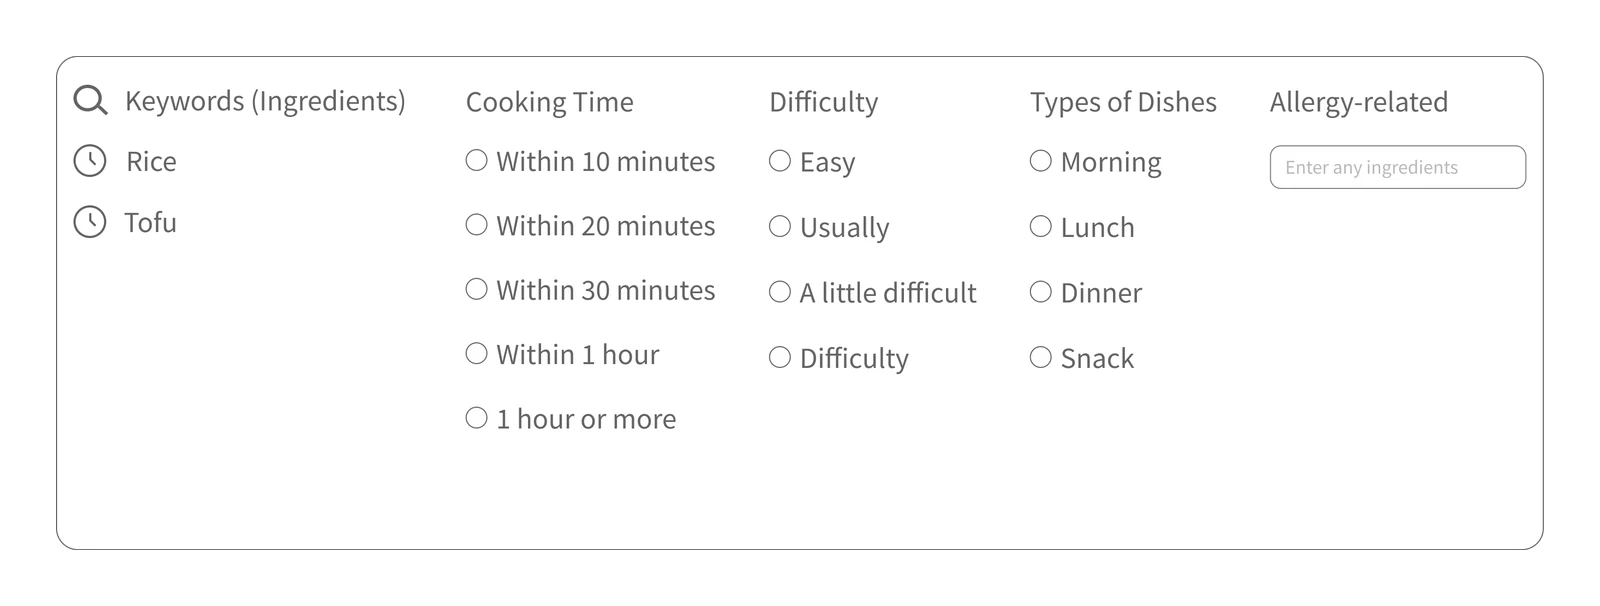
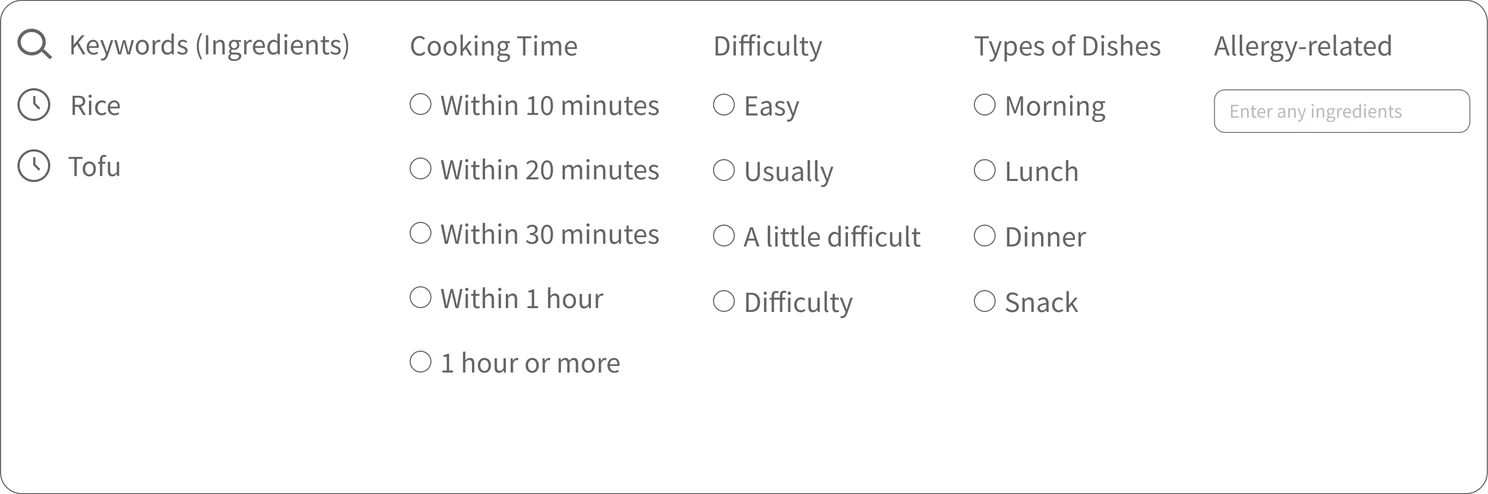
Highlight results in insight cards, clear the filter panel background
Cards with a problem and result now show them as separate Insight and Result
blocks. The PROFITKEY AI pick image is smaller and Log in is the last final screen.

diff --git a/src/data/projects.ts b/src/data/projects.ts
@@ -20,6 +20,8 @@ export type Figure = {
   tall?: boolean
   /** No white frame or border: for images with their own rounded card shape. */
   frameless?: boolean
+  /** Shown smaller than the column, for a tall screenshot beside a short text. */
+  narrow?: boolean
   /** Show a zoom button and open the image in the lightbox when clicked (mockups, small or detailed images). */
   zoom?: boolean
   /** Large showcase image: full content width, framed to match its own dark background. */
@@ -319,7 +321,7 @@ export const projects: Project[] = glueAll<Project[]>([
               'The home page opens with AI recommended stocks, chosen from data such as stability, growth rate, profitability and financial health.',
               'The key part is the AI Comment under each pick. Instead of leaving beginners with only a price and a percentage, it explains in a few plain sentences why the stock was recommended, so they understand the reason before they decide.',
             ],
-            figures: [screen('profitkey-ai-pick', 'AI Recommended Stocks card: Apple, +20%, a price chart and key figures, ending in a yellow AI Comment box that explains the pick in plain sentences.', 'The AI Comment under each recommended stock explains the pick.', 566, 622)],
+            figures: [{ ...screen('profitkey-ai-pick', 'AI Recommended Stocks card: Apple, +20%, a price chart and key figures, ending in a yellow AI Comment box that explains the pick in plain sentences.', 'The AI Comment under each recommended stock explains the pick.', 566, 622), narrow: true }],
           },
           {
             kind: 'feature',
@@ -431,11 +433,6 @@ export const projects: Project[] = glueAll<Project[]>([
                 figure: { ...screen('profitkey-en-faq', 'PROFITKEY FAQ page: questions in an expandable accordion and a Contact Us button.', 'FAQ', 1400, 1072), tall: true },
               },
               {
-                title: 'Log in',
-                note: 'Members log in with a Google, Facebook or Apple account.',
-                figure: { ...screen('profitkey-en-login', 'PROFITKEY login page: the logo above three buttons, Log in with Google, Log in with Facebook and Log in with Apple.', 'Log in', 1400, 935), tall: true },
-              },
-              {
                 title: 'My watchlist',
                 note: 'Saved stocks with their price charts.',
                 figure: { ...screen('profitkey-en-watchlist', 'PROFITKEY my page, watchlist tab: saved stocks shown as cards with price charts.', 'My watchlist', 1400, 941), tall: true },
@@ -449,6 +446,11 @@ export const projects: Project[] = glueAll<Project[]>([
                 title: 'Edit profile',
                 note: 'Members can change their nickname and email address, or log out.',
                 figure: { ...screen('profitkey-en-edit-profile', 'PROFITKEY edit profile page: change nickname and email address, with a log out button.', 'Edit profile', 1400, 756), tall: true },
+              },
+              {
+                title: 'Log in',
+                note: 'Members log in with a Google, Facebook or Apple account.',
+                figure: { ...screen('profitkey-en-login', 'PROFITKEY login page: the logo above three buttons, Log in with Google, Log in with Facebook and Log in with Apple.', 'Log in', 1400, 935), tall: true },
               },
             ],
           },
@@ -997,7 +999,7 @@ export const projects: Project[] = glueAll<Project[]>([
             // clicking the filter icon in the bar opens the panel (components/FilterDemo.tsx)
             filterDemo: {
               bar: cook('search-bar', 'Search bar with an ingredients field, a highlighted filter button and an orange Search button.', undefined, 1600, 143),
-              panel: cook('filter-panel', 'Filter panel: ingredients, cooking time from within 10 minutes to over an hour, difficulty, type of dish and an allergy field.', 'Filter panel.', 1600, 606),
+              panel: cook('filter-panel', 'Filter panel: ingredients, cooking time from within 10 minutes to over an hour, difficulty, type of dish and an allergy field.', 'Filter panel.', 1488, 494),
             },
           },
           {

diff --git a/src/components/CaseStudySection.tsx b/src/components/CaseStudySection.tsx
@@ -18,7 +18,7 @@ function FigureView({ figure, zoom = figure.zoom }: { figure: Figure; zoom?: boo
     <img src={figure.src} alt={figure.alt} width={figure.width} height={figure.height} loading="lazy" decoding="async" />
   )
   return (
-    <figure className={`cs-figure ${figure.tall ? 'cs-figure--tall' : ''} ${figure.wide ? 'cs-figure--wide' : ''} ${figure.frameless ? 'cs-figure--frameless' : ''}`}>
+    <figure className={`cs-figure ${figure.tall ? 'cs-figure--tall' : ''} ${figure.wide ? 'cs-figure--wide' : ''} ${figure.frameless ? 'cs-figure--frameless' : ''} ${figure.narrow ? 'cs-figure--narrow' : ''}`}>
       {figure.tall ? (
         // Long page captures scroll inside a frame instead of stretching the page.
         <div className="cs-figure__scroll" tabIndex={0} role="region" aria-label={`${figure.caption ?? 'Full page'} (scrollable)`}>
@@ -73,14 +73,27 @@ function BlockView({ block }: { block: Block }) {
     case 'cards':
       return (
         <ul className={`cs-cards cs-cards--${block.items.length}`}>
-          {block.items.map((c) => (
-            <li key={c.title} className="cs-card">
-              <h4>{c.title}</h4>
-              <p>
-                <Rich text={c.body} />
-              </p>
-            </li>
-          ))}
+          {block.items.map((c) => {
+            // "problem → result" is shown as an insight with its own highlighted result
+            const [insight, result] = c.body.split(/\s*→\s*/)
+            return (
+              <li key={c.title} className={`cs-card ${result ? 'cs-card--result' : ''}`}>
+                {result && <p className="cs-card__label">Insight</p>}
+                <h4>{c.title}</h4>
+                <p>
+                  <Rich text={insight} />
+                </p>
+                {result && (
+                  <div className="cs-card__result">
+                    <p className="cs-card__label">Result</p>
+                    <p className="cs-card__result-text">
+                      <Rich text={result} />
+                    </p>
+                  </div>
+                )}
+              </li>
+            )
+          })}
         </ul>
       )
     case 'figure':

diff --git a/src/styles/case-study.css b/src/styles/case-study.css
@@ -346,6 +346,35 @@
   font-size: var(--fs-base);
   line-height: 1.55;
 }
+/* insight and result: the result sits in its own tinted block, lined up along each row */
+.cs-card--result {
+  display: flex;
+  flex-direction: column;
+}
+.cs-card .cs-card__label {
+  margin-bottom: 0.35rem;
+  color: var(--c-ink-soft);
+  font-size: var(--fs-xs);
+  font-weight: 800;
+  letter-spacing: 0.1em;
+  text-transform: uppercase;
+}
+.cs-card--result > p:not(.cs-card__label) {
+  margin-bottom: var(--s-4);
+}
+.cs-card__result {
+  margin-top: auto;
+  padding: var(--s-4);
+  border-radius: var(--r-sm);
+  background: var(--p-surface);
+}
+.cs-card .cs-card__result .cs-card__label {
+  color: var(--c-ink);
+}
+.cs-card .cs-card__result-text {
+  color: var(--c-ink);
+  font-weight: 700;
+}
 
 /* pages: website pages as small browser windows */
 .cs-pages {
@@ -903,6 +932,11 @@
    on a background that matches the board itself instead of a white frame */
 .cs-figure--wide {
   margin-top: var(--s-2);
+}
+.cs-figure--narrow {
+  justify-self: center;
+  width: 100%;
+  max-width: 400px;
 }
 .cs-figure--wide .cs-figure__frame {
   border: 0;
